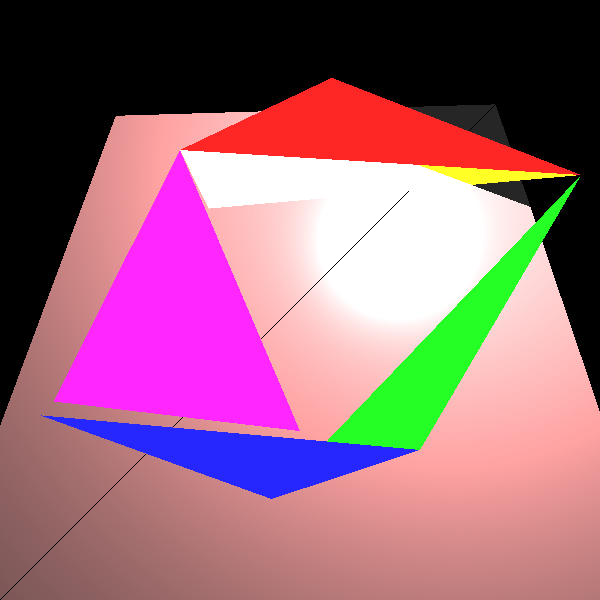
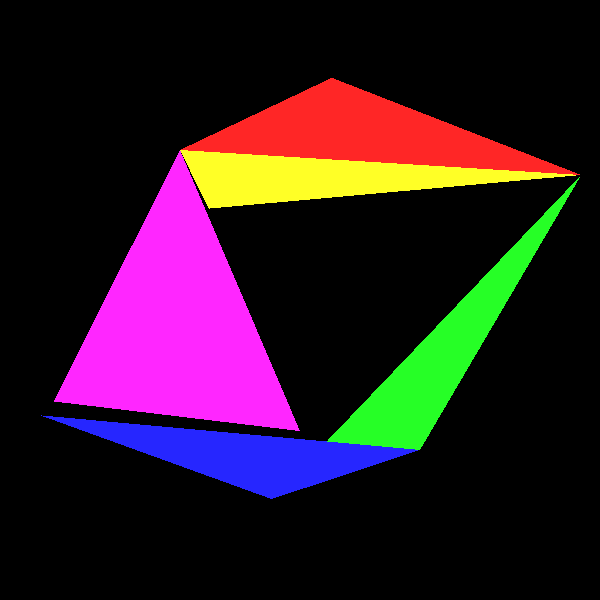
TEST NOGA

diff --git a/unitTests/renderer/ReflectionRefractionTests.java b/unitTests/renderer/ReflectionRefractionTests.java
@@ -186,15 +186,18 @@ class ReflectionRefractionTests {
 	}
 
 	@Test
-	public void testnoga() {
+	public void test4() {
 		Camera camera = new Camera(new Point(0, 0, 10000), new Vector(0, 0, -1), new Vector(0, 1, 0)) //
 				.setVPSize(2500, 2500).setVPDistance(10000); //
 
 		Scene scene = new Scene.SceneBuilder("Test scene").setBackground(new Color (0,162,232)).build();
-
 		scene.getGeometries().add(
 
-				new Sphere(new Point(0,-1000,0),1000).setEmission(new Color(128,64,0)),
+				new Sphere(new Point(0,-1000,0),1000).setEmission(new Color(156,103,73)),
+
+		        new Sphere(new Point(-1000,-900,50),550).setEmission(new Color(185,122,87)),
+				new Sphere(new Point(1000,-900,50),550).setEmission(new Color(185,122,87)),
+
 				//HOME
 
 				new Triangle(new Point(300, -50, 500),new Point(-300,-50,500),new Point(300,400,0)).setEmission(new Color(255, 255, 128))
@@ -228,7 +231,7 @@ class ReflectionRefractionTests {
 				.setkL(4E-5).setkQ(2E-7));
 
 
-		ImageWriter imageWriter = new ImageWriter("testnoga", 500, 500);
+		ImageWriter imageWriter = new ImageWriter("333", 500, 500);
 		camera.setImageWriter(imageWriter) //
 				.setRayTracer(new RayTracerBasic(scene)) //
 				.renderImage(); //
